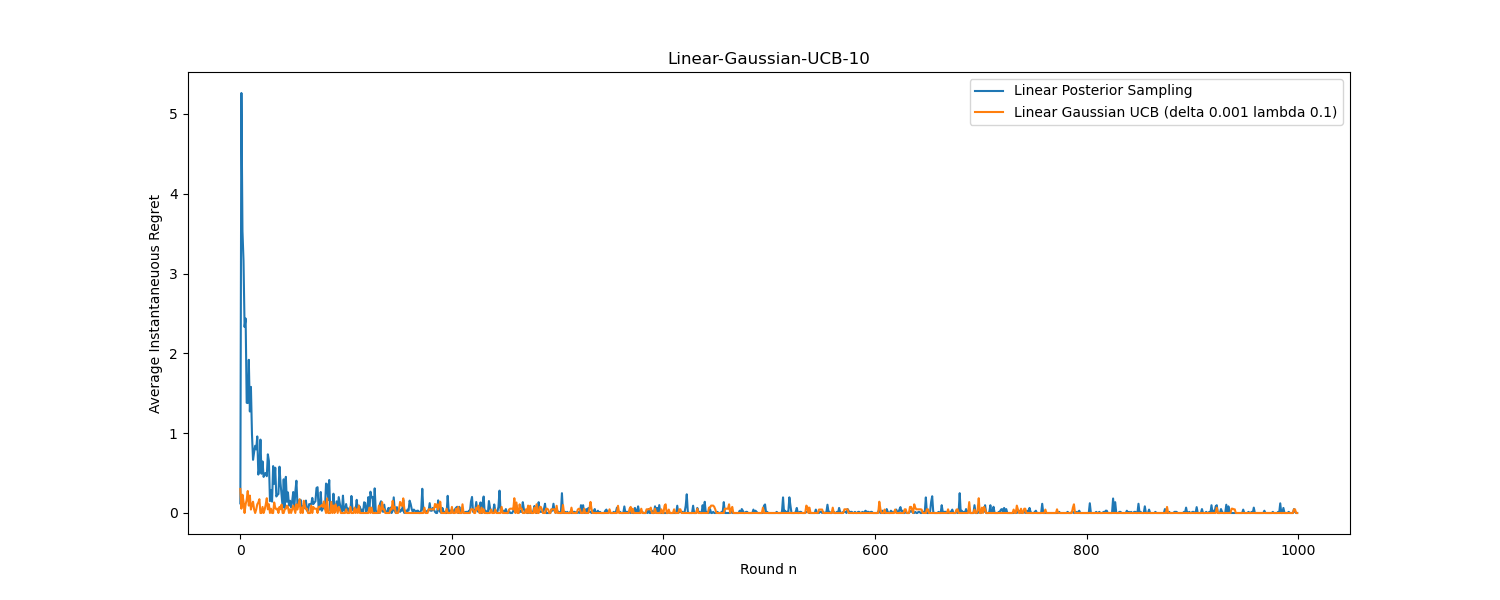
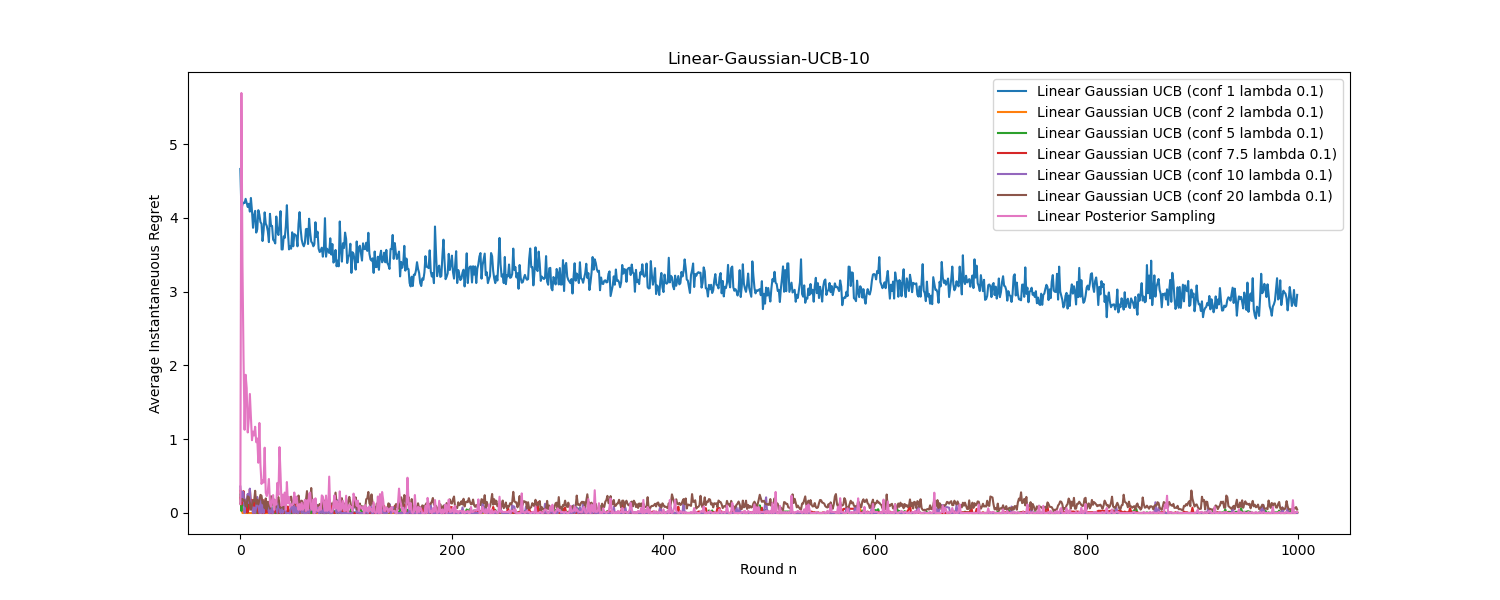
Maybe, a result could that be that Regret as a function of lambda and beta is better than that of posterior sampling

Changed region(s): [[0.1533, 0.3, 0.8893, 0.87], [0.644, 0.12, 0.8893, 0.39]]

diff --git a/scripts/linear_gaussian_ucb_simulations.py b/scripts/linear_gaussian_ucb_simulations.py
@@ -13,12 +13,12 @@ import numpy as np
 import math
 np.random.seed(0)
 
-linear_gaussian_stochastic_data_job_1 = Linear_Gaussian_Stochastic(delta = 0.001, lambda_reg = 0.5, post = 10)
-linear_gaussian_stochastic_data_job_2 = Linear_Gaussian_Stochastic(delta = 0.001, lambda_reg = 0.1, post = 10)
-linear_gaussian_stochastic_data_job_3 = Linear_Gaussian_Stochastic(delta = 0.001, lambda_reg = 0.2, post = 10)
-linear_gaussian_stochastic_data_job_4 = Linear_Gaussian_Stochastic(delta = 0.001, lambda_reg = 0.3, post = 10)
-linear_gaussian_stochastic_data_job_5 = Linear_Gaussian_Stochastic(delta = 0.001, lambda_reg = 0.4, post = 10)
-linear_gaussian_stochastic_data_job_6 = Linear_Gaussian_Stochastic(delta = 0.001, lambda_reg = 0.75, post = 10)
+linear_gaussian_stochastic_data_job_1 = Linear_Gaussian_Stochastic(lambda_reg = 0.1, conf = 1)
+linear_gaussian_stochastic_data_job_2 = Linear_Gaussian_Stochastic(lambda_reg = 0.1, conf = 2)
+linear_gaussian_stochastic_data_job_3 = Linear_Gaussian_Stochastic(lambda_reg = 0.1, conf = 5)
+linear_gaussian_stochastic_data_job_4 = Linear_Gaussian_Stochastic(lambda_reg = 0.1, conf = 7.5)
+linear_gaussian_stochastic_data_job_5 = Linear_Gaussian_Stochastic(lambda_reg = 0.1, conf = 10)
+linear_gaussian_stochastic_data_job_6 = Linear_Gaussian_Stochastic(lambda_reg = 0.1, conf = 20)
 
 linear_gaussian_ucb_1 = Linear_Gaussian_UCB(linear_gaussian_stochastic_data_job_1)
 linear_gaussian_ucb_2 = Linear_Gaussian_UCB(linear_gaussian_stochastic_data_job_2)
@@ -31,14 +31,17 @@ linear_ps_data_job_1 = Linear_Posterior_Sampling_Stochastic()
 linear_thompson_sampling = Linear_Posterior_Sampling(linear_ps_data_job_1)
 
 partial_info_ground = Partial_Info_Play_Ground(linear_gaussian_stochastic_data_job_1, 
-                                                 [linear_thompson_sampling, linear_gaussian_ucb_2],
+                                                 [linear_gaussian_ucb_1, linear_gaussian_ucb_2, 
+                                                  linear_gaussian_ucb_3, linear_gaussian_ucb_4, 
+                                                  linear_gaussian_ucb_5, linear_gaussian_ucb_6, 
+                                                  linear_thompson_sampling],
                                                  plot_label = "Linear-Gaussian-UCB-10",
                                                  plot_directory = "/Users/sidbajaj/MultiArmedBandits/results/linear_gaussian_ucb_simulations/",
                                                  compute_importance_weighted_rewards = True)
 partial_info_ground.plot_results()
 
 
-linear_gaussian_stochastic_data_job_1 = Linear_Gaussian_Stochastic(delta = 0.001, lambda_reg = 0.15, post = 2)
+linear_gaussian_stochastic_data_job_1 = Linear_Gaussian_Stochastic(lambda_reg = 0.15, post = 2)
 linear_gaussian_stochastic_data_job_2 = Linear_Gaussian_Stochastic(delta = 0.001, lambda_reg = 0.1, post = 2)
 linear_gaussian_stochastic_data_job_3 = Linear_Gaussian_Stochastic(delta = 0.001, lambda_reg = 0.25, post = 2)
 linear_gaussian_stochastic_data_job_4 = Linear_Gaussian_Stochastic(delta = 0.001, lambda_reg = 0.5, post = 2)
@@ -53,7 +56,7 @@ linear_gaussian_ucb_5 = Linear_Gaussian_UCB(linear_gaussian_stochastic_data_job_
 linear_gaussian_ucb_6 = Linear_Gaussian_UCB(linear_gaussian_stochastic_data_job_6)
 
 partial_info_ground = Partial_Info_Play_Ground(linear_gaussian_stochastic_data_job_1, 
-                                                 [linear_thompson_sampling, linear_gaussian_ucb_4],
+                                                 [linear_gaussian_ucb_4, linear_thompson_sampling],
                                                  plot_label = "Linear-Gaussian-UCB-2",
                                                  plot_directory = "/Users/sidbajaj/MultiArmedBandits/results/linear_gaussian_ucb_simulations/",
                                                  compute_importance_weighted_rewards = True)

diff --git a/src/data_generating_mechanism/linear_gaussian_mechanism.py b/src/data_generating_mechanism/linear_gaussian_mechanism.py
@@ -3,14 +3,14 @@ from numpy import random
 from data_generating_mechanism.data_generating_mechanism import Data_Generating_Mechanism
 
 class Linear_Gaussian_Stochastic(Data_Generating_Mechanism):   
-    def __init__(self, post, d = 10, lambda_reg = 0.25, num_arms = 100, time_horizon = 1000, must_update_statistics = True, init_exploration = 1, delta = 0.01):
+    def __init__(self, d = 10, lambda_reg = 0.25, num_arms = 100, time_horizon = 1000, must_update_statistics = True, init_exploration = 1, conf = 1):
         # the prior mean and the covariance vector
         # will be posteriors at the first time-step
         self.d = d
-        self.delta = delta
+        self.conf = conf
         self.mustUpdateStatistics = True
         self.posterior_mean = np.zeros(d)
-        self.posterior_covariance = post * np.identity(d)
+        self.posterior_covariance = 10 * np.identity(d)
         self.num_arms = num_arms
        
         self.theta_hat = np.zeros(d)
@@ -64,7 +64,7 @@ class Linear_Gaussian_Stochastic(Data_Generating_Mechanism):
     def get_beta(self, t):
         first_part = np.sqrt(self.lambda_reg) * self.get_m2()
         second_part = np.sqrt(2 * np.log(1 / self.delta) + np.log(np.linalg.det(self.V) / self.lambda_reg**self.d))
-        return first_part + second_part
+        return second_part
     
     def compareWith(self, i, t):
         optimal_arm_idx = self.get_optimal_arm_index()
@@ -79,7 +79,7 @@ class Linear_Gaussian_Stochastic(Data_Generating_Mechanism):
     
     def get_arm_index(self, j, t):
         arm_feature = self.get_arm_feature_map(j)
-        return np.dot(self.theta_hat, arm_feature) + self.get_beta(t) * (np.sqrt(arm_feature @ np.linalg.inv(self.V) @ np.transpose(arm_feature)))
+        return np.dot(self.theta_hat, arm_feature) + self.conf * (np.sqrt(arm_feature @ np.linalg.inv(self.V) @ np.transpose(arm_feature)))
 
     def get_rewards(self, t):
         sub_gaussian_error_terms = np.random.normal(size = self.num_arms)

diff --git a/src/bandit_algorithms/linear_gaussian_ucb.py b/src/bandit_algorithms/linear_gaussian_ucb.py
@@ -7,7 +7,7 @@ class Linear_Gaussian_UCB(Bandit_Algorithm_PI):
     def __init__(self, data_generating_mechanism):
         super().__init__()
         self.__data_generating_mechanism = data_generating_mechanism
-        self.__label = "Linear Gaussian UCB (delta {} lambda {})".format(data_generating_mechanism.delta, 
+        self.__label = "Linear Gaussian UCB (conf {} lambda {})".format(data_generating_mechanism.conf, 
                                                                          data_generating_mechanism.lambda_reg)
         self.__current_sampling_distribution = np.zeros(shape = self.data_generating_mechanism.get_K())
 

diff --git a/src/play_ground/play_ground.py b/src/play_ground/play_ground.py
@@ -41,4 +41,5 @@ class PlayGround:
         fig, ax = plt.subplots()
         ax.set_ylabel('Regret_T')
         bplot = ax.boxplot(regret_stats) 
-        plt.show()
+        plt.savefig(self.plot_directory + self.label + "boxplot")
+        plt.close()
